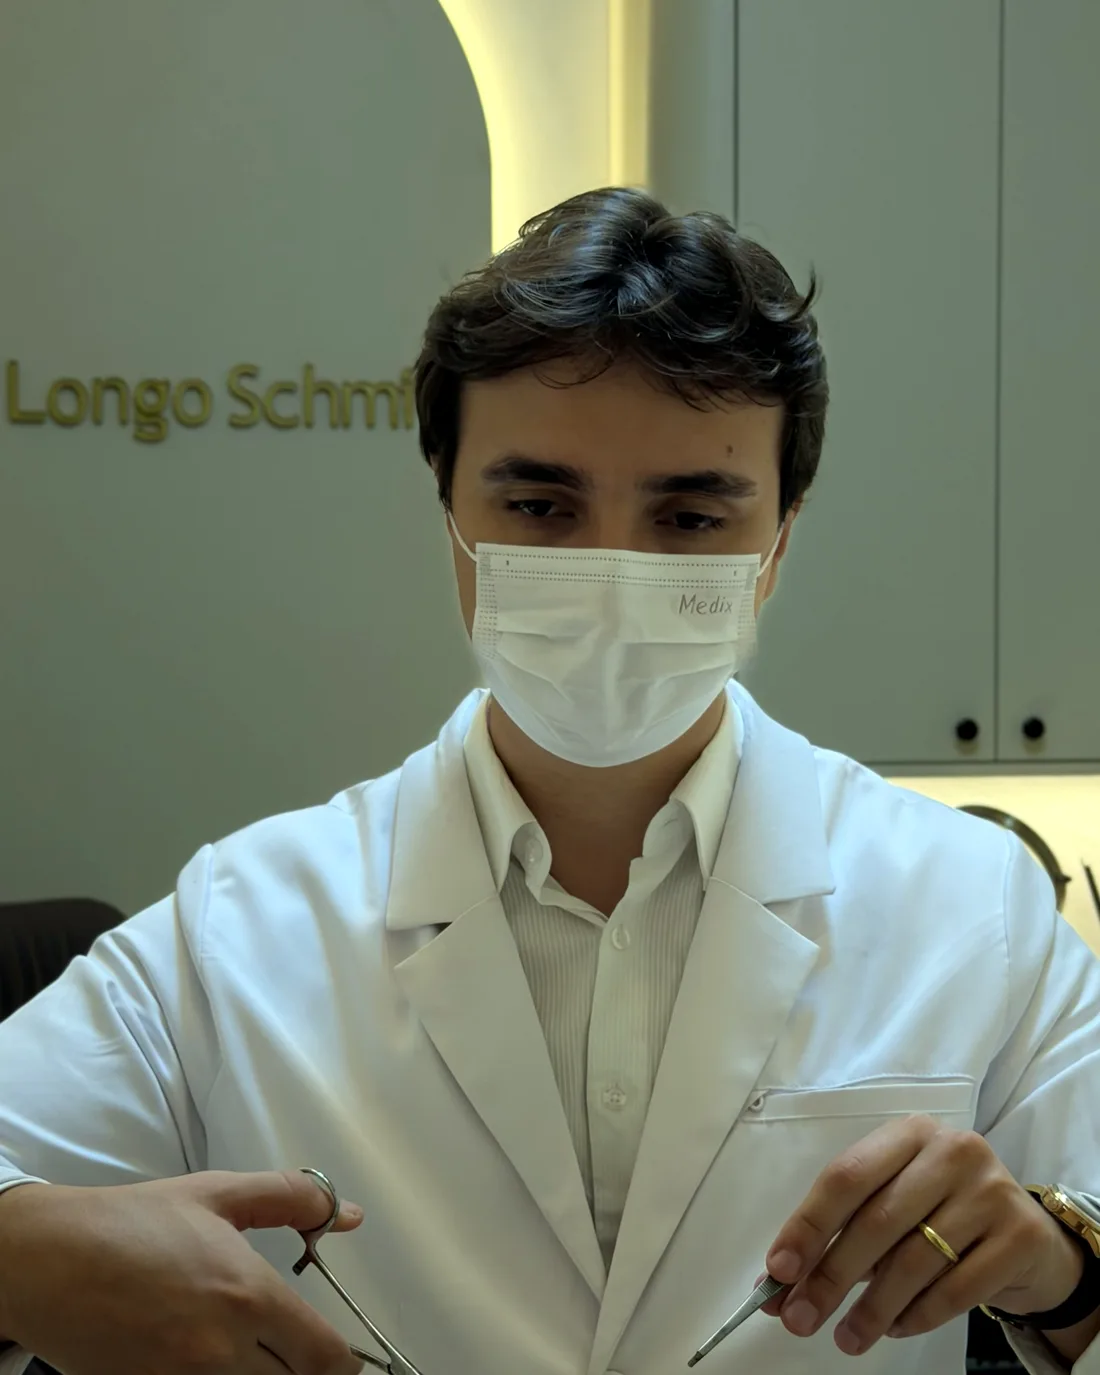
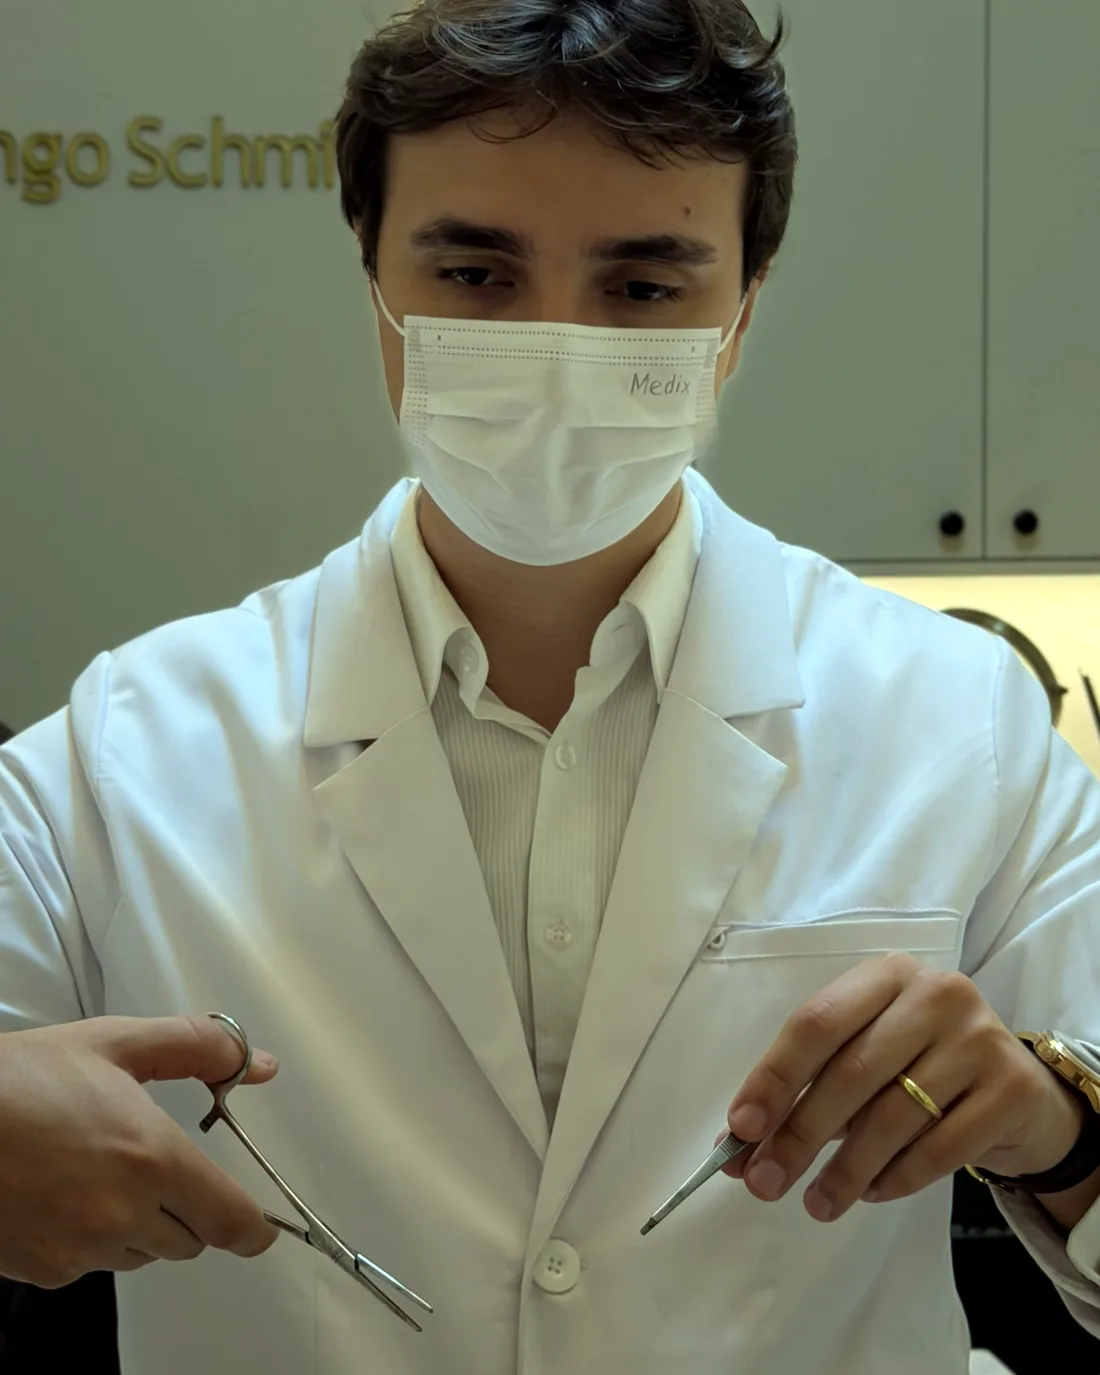
Fotos do Dr. Pedro recortadas e centralizadas; galeria no perfil
Claude-Session: https://claude.ai/code/session_01EhM7pqGPxLbPuGPGARjaBR

diff --git a/site/pages/servicos.html b/site/pages/servicos.html
@@ -68,7 +68,7 @@
       <ul class="chk" data-stagger><li>Cisto epidermoide (o "cisto sebáceo") e lipoma</li><li>Pintas, com biópsia</li><li>Unha encravada</li><li>Verrugas, acrocórdons e queratose seborreica</li><li>Lóbulo da orelha rasgado</li><li>Biópsia, abscesso, corpo estranho, xantelasma, cicatrizes e queloides</li></ul>
       <div class="ctas" style="margin-top:24px" data-fade><a class="btn dark" href="{{WA:Olá! Quero agendar uma avaliação de uma lesão de pele (cisto, lipoma ou pinta).}}" target="_blank" rel="noopener">Agendar avaliação</a><a class="btn lined" href="/servicos/pequenas-cirurgias/">Ver todas as cirurgias</a></div>
     </div>
-    <div class="ph tall" data-clip><img data-par src="/s/img/bandeja.jpg" alt="Instrumentos cirúrgicos esterilizados" loading="lazy"></div>
+    <div class="ph tall" data-clip><img data-par src="/s/img/pedro-cirurgia.jpg" alt="Dr. Pedro Schmitz com instrumentos de pequena cirurgia no consultório" loading="lazy"></div>
   </div>
 </section>
 

diff --git a/site/pages/equipe-pedro.html b/site/pages/equipe-pedro.html
@@ -22,6 +22,17 @@
   </div>
 </section>
 
+<section class="pad">
+  <div class="wrap">
+    <span class="kick" data-fade>No consultório</span>
+    <div class="g3" style="margin-top:28px" data-stagger>
+      <div class="ph tall" data-clip><img data-par src="/s/img/pedro-terno.jpg" alt="Dr. Pedro Schmitz de terno, sorrindo" loading="lazy"></div>
+      <div class="ph tall" data-clip><img data-par src="/s/img/pedro-jaleco-mesa.jpg" alt="Dr. Pedro Schmitz de jaleco à mesa do consultório" loading="lazy"></div>
+      <div class="ph tall" data-clip><img data-par src="/s/img/pedro-sorriso.jpg" alt="Dr. Pedro Schmitz em pé no consultório da Curae Santé" loading="lazy"></div>
+    </div>
+  </div>
+</section>
+
 <section class="pad cr">
   <div class="wrap">
     <span class="kick" data-fade>Áreas de atuação</span>

diff --git a/site/pages/equipe.html b/site/pages/equipe.html
@@ -9,7 +9,7 @@
 <section class="pad-s" style="padding-top:clamp(40px,6vw,80px)">
   <div class="wrap team" data-stagger>
     <a class="tcard" href="/equipe/dr-pedro-schmitz/">
-      <img src="/s/img/dr-pedro.jpg" alt="Dr. Pedro Schmitz de jaleco" style="object-position:center 25%">
+      <img src="/s/img/pedro-jaleco-mesa.jpg" alt="Dr. Pedro Schmitz de jaleco à mesa do consultório" style="object-position:center 30%">
       <div class="tx">
         <span class="crm">Médico · CRM/SC 38229</span>
         <h2>Dr. Pedro Schmitz</h2>
